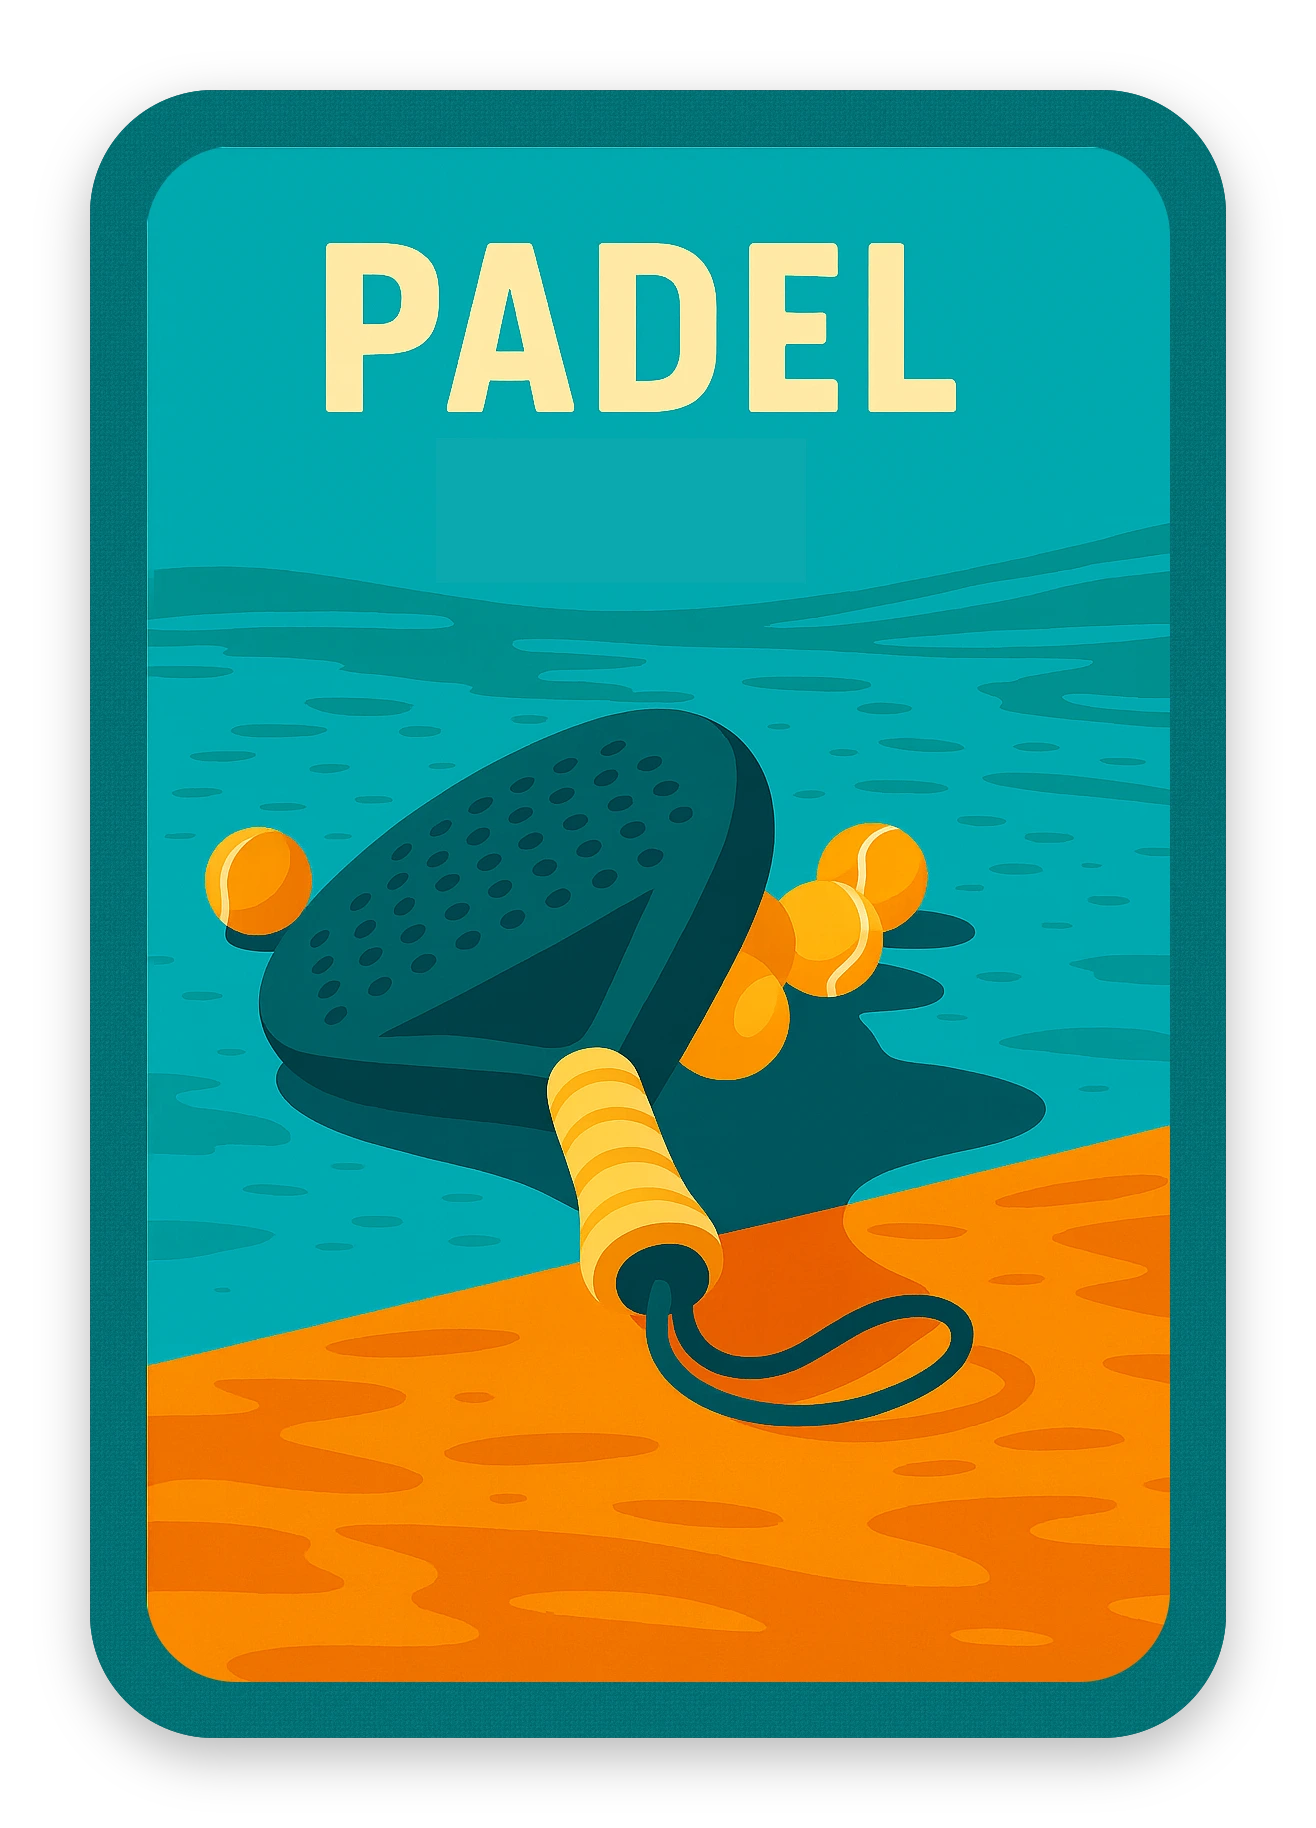
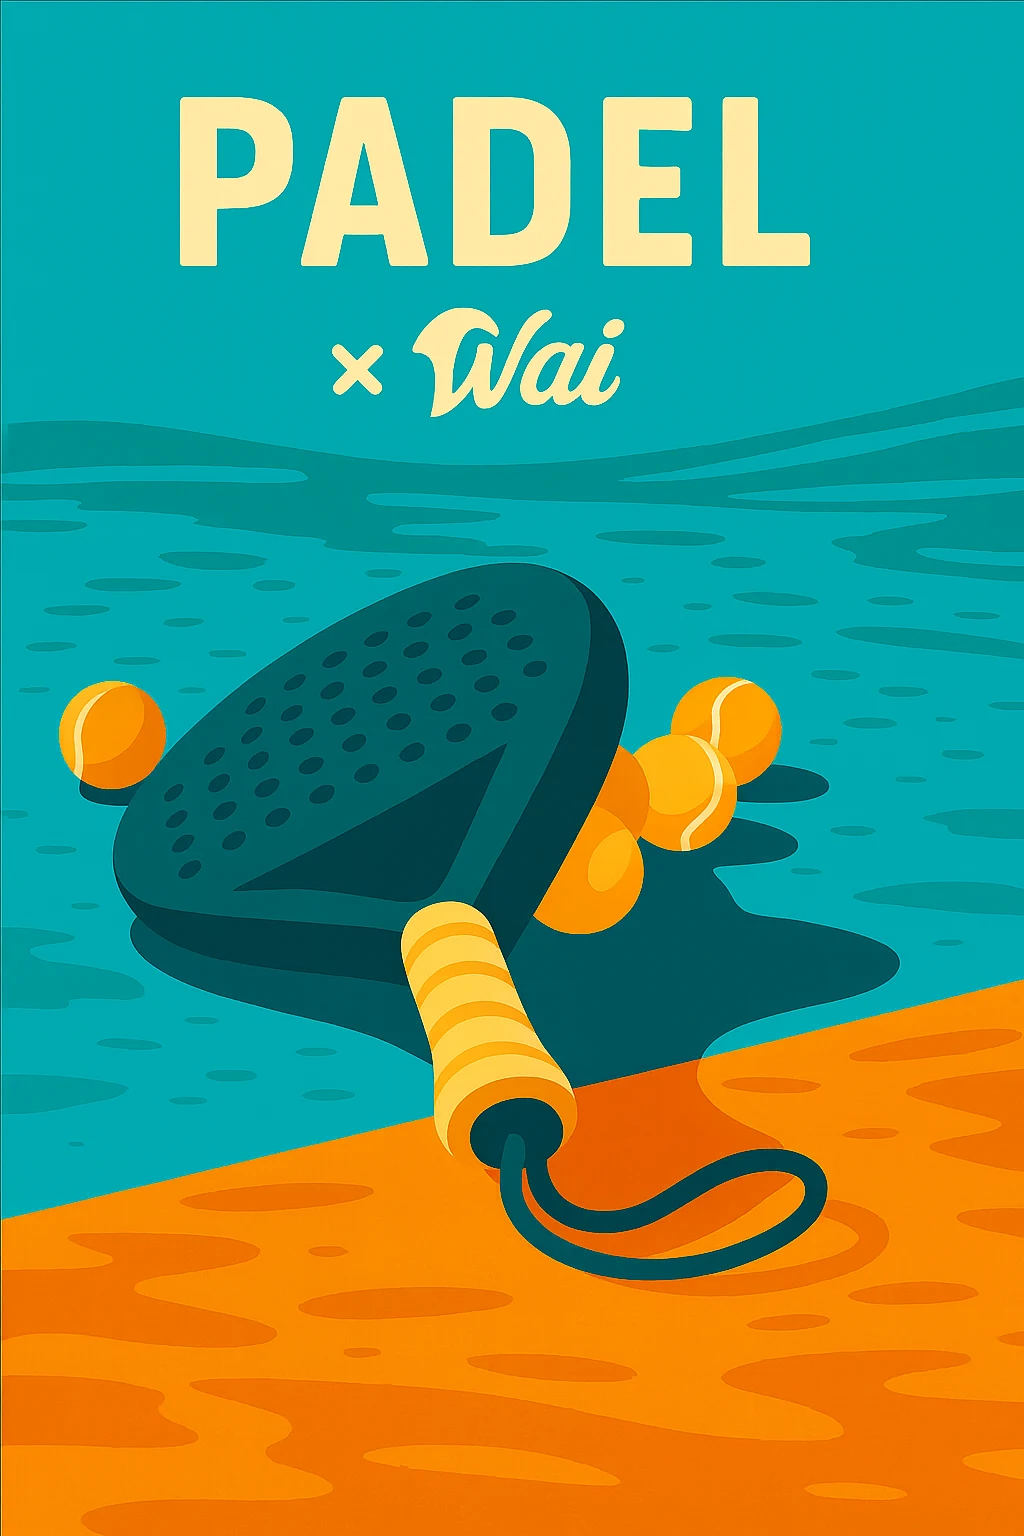
feat: liquidar stock Wai como "Stock limitado · Nomora x Wai"
Restaura las fotos originales de ponchos y toallas (con el tag/branding
Wai real, sin la edición previa que lo reemplazaba por el logo de Nomora),
para que coincidan con la etiqueta física del stock que queda por vender.
Se mantiene la eliminación de fondo blanco en los ponchos (mejora de
calidad aparte del tema de marca).

Agrega badge "Stock limitado · Nomora x Wai" en catálogo y ficha de
producto para poncho-playero y toalla-playa, vía PRODUCT_TRANSLATIONS
(campo notaEspecial, ES/EN).

diff --git a/src/lib/i18n/translations.ts b/src/lib/i18n/translations.ts
@@ -253,7 +253,14 @@ export const translations = {
   },
 }
 
-export const PRODUCT_TRANSLATIONS: Record<string, { es: { nombre: string; descripcion: string; spec: string }; en: { nombre: string; descripcion: string; spec: string } }> = {
+interface ProductoTexto {
+  nombre: string
+  descripcion: string
+  spec: string
+  notaEspecial?: string
+}
+
+export const PRODUCT_TRANSLATIONS: Record<string, { es: ProductoTexto; en: ProductoTexto }> = {
   tomatodo: {
     es: {
       nombre: "Tomatodo Nomora",
@@ -273,12 +280,14 @@ export const PRODUCT_TRANSLATIONS: Record<string, { es: { nombre: string; descri
       descripcion:
         "Poncho de secado rápido para cambiarte en la playa o después del mar sin pasar frío. Incluye su propia bolsa de guardado (25 x 20 cm aprox.) para llevarlo sin ensuciar el resto de tu mochila.",
       spec: "Microfibra · secado rápido",
+      notaEspecial: "Stock limitado · Nomora x Wai",
     },
     en: {
       nombre: "Beach poncho",
       descripcion:
         "Quick-dry poncho to change at the beach or after the water without getting cold. Comes with its own storage pouch (about 25 x 20 cm) so it doesn't get the rest of your bag wet.",
       spec: "Microfiber · quick-dry",
+      notaEspecial: "Limited stock · Nomora x Wai",
     },
   },
   "toalla-playa": {
@@ -287,12 +296,14 @@ export const PRODUCT_TRANSLATIONS: Record<string, { es: { nombre: string; descri
       descripcion:
         "Toalla grande de secado rápido — y un lugar real del Perú estampado en cada diseño. Gocta, Lima, Máncora: elige la ruta que ya viviste o la que sigue en tu lista.",
       spec: "160 x 80 cm · secado rápido",
+      notaEspecial: "Stock limitado · Nomora x Wai",
     },
     en: {
       nombre: "Beach towel",
       descripcion:
         "Large quick-dry towel — with a real Peruvian spot printed on every design. Gocta, Lima, Máncora: pick the route you've already lived, or the one still on your list.",
       spec: "160 x 80 cm · quick-dry",
+      notaEspecial: "Limited stock · Nomora x Wai",
     },
   },
   "medias-neopreno": {

diff --git a/src/components/marketing/catalogo-grid.tsx b/src/components/marketing/catalogo-grid.tsx
@@ -64,6 +64,11 @@ export function CatalogoGrid({ ofertas = {} }: { ofertas?: Record<string, number
                     <ProductoIcono slug={producto.slug} />
                   )}
                 </div>
+                {texto.notaEspecial && (
+                  <span className="inline-flex w-fit items-center rounded-full bg-[var(--nomora-terracota)] px-2.5 py-1 text-[10px] font-semibold tracking-[0.04em] text-[var(--nomora-blanco-hueso)] uppercase">
+                    {texto.notaEspecial}
+                  </span>
+                )}
                 <h3 className="text-lg font-semibold tracking-[-0.01em] text-foreground">{texto.nombre}</h3>
                 <p className="font-mono text-[10.5px] tracking-[0.06em] text-muted-foreground uppercase">
                   {texto.spec}

diff --git a/src/components/marketing/producto-detalle.tsx b/src/components/marketing/producto-detalle.tsx
@@ -75,6 +75,11 @@ export function ProductoDetalle({
         </div>
 
         <div>
+          {texto.notaEspecial && (
+            <span className="mb-3 inline-flex w-fit items-center rounded-full bg-[var(--nomora-terracota)] px-3 py-1 text-[11px] font-semibold tracking-[0.04em] text-[var(--nomora-blanco-hueso)] uppercase">
+              {texto.notaEspecial}
+            </span>
+          )}
           <h1 className="text-3xl font-black tracking-[-0.02em] text-foreground sm:text-4xl">{texto.nombre}</h1>
           <p className="mt-3 font-mono text-xs tracking-[0.06em] text-muted-foreground uppercase">{texto.spec}</p>
           <p className="mt-5 max-w-[48ch] text-[15px] text-muted-foreground">{texto.descripcion}</p>
